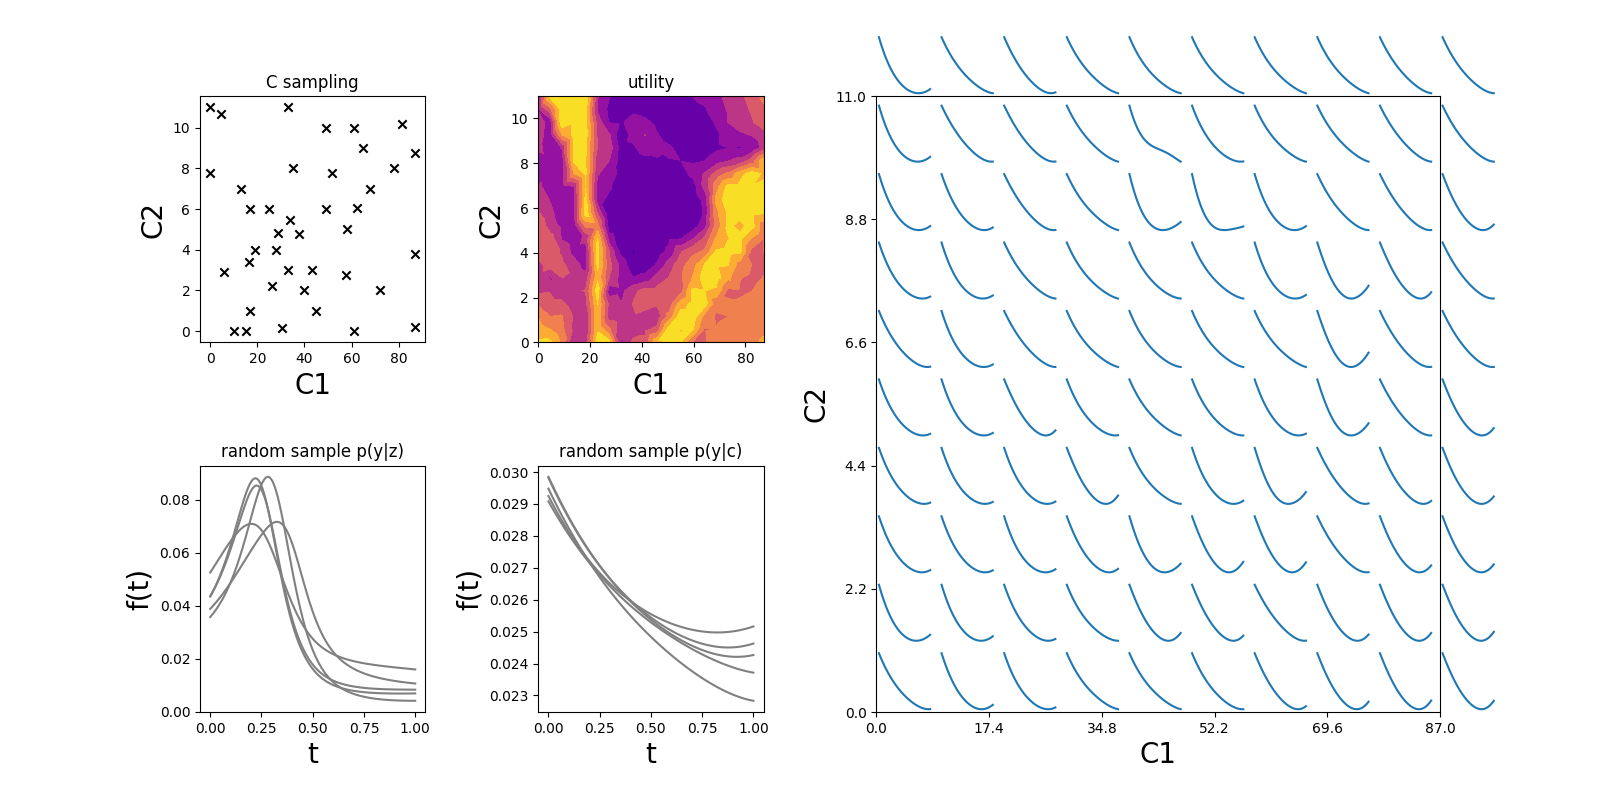
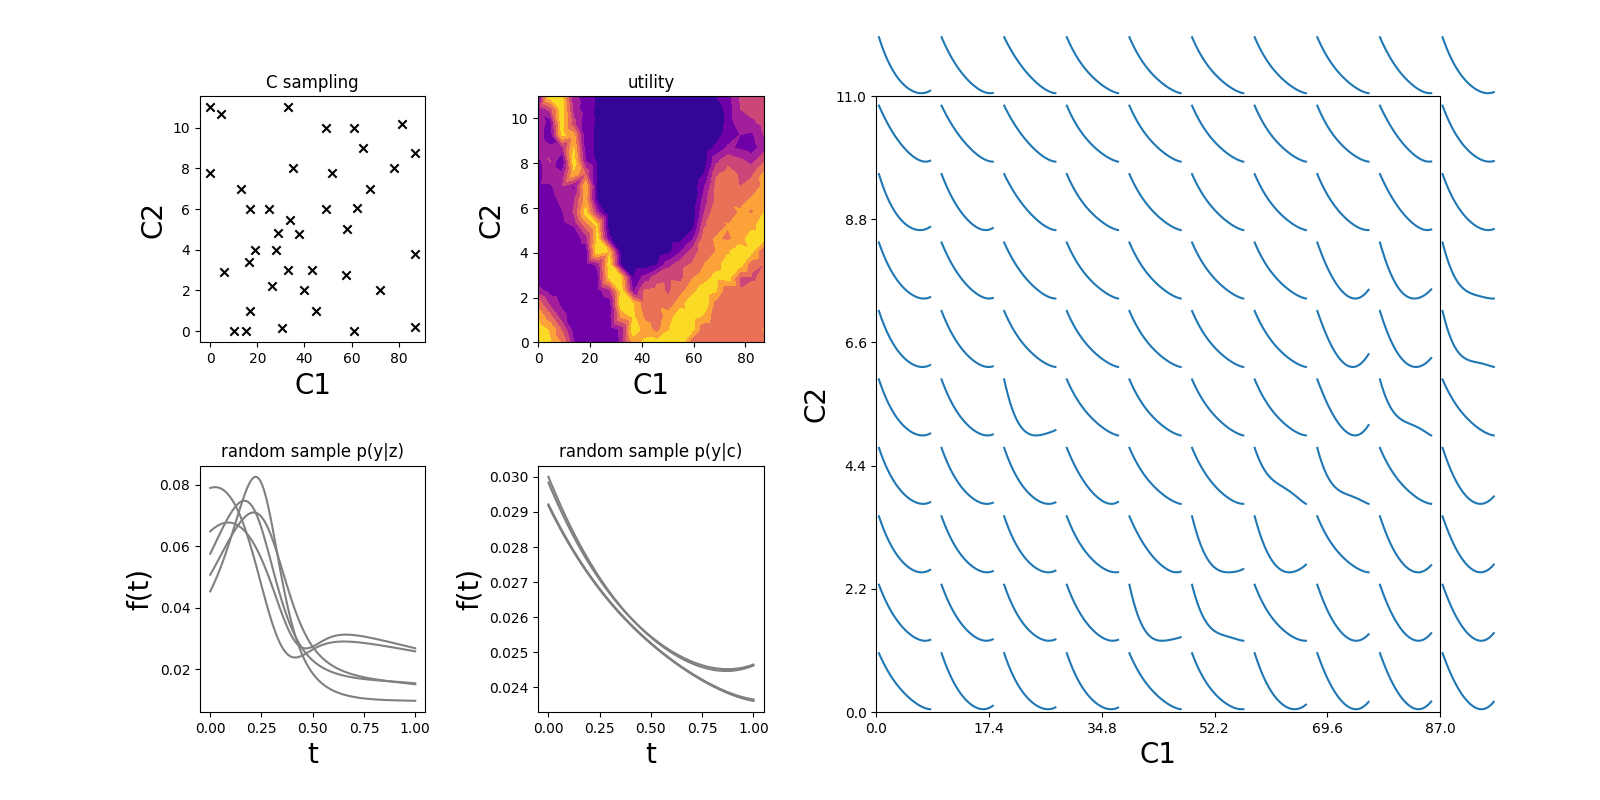
trying to debug anissue where samples from the posterior are nan; there have been many reports of this og github; using double didn't fix it

diff --git a/utils/visuals.py b/utils/visuals.py
@@ -200,23 +200,42 @@ def plot_gpmodel(test_function, gp_model, np_model, fname):
     return 
 
 # plot phase map predition
+
+def plot_gpmodel_recon(ax, gp_model, np_model, test_function, c):
+    with torch.no_grad():
+        mu, sigma = from_comp_to_spectrum(test_function, gp_model, np_model, c)
+        mu_ = mu.cpu().squeeze()
+        sigma_ = sigma.cpu().squeeze()
+        ax.plot(test_function.sim.t, mu_)
+        ax.fill_between(test_function.sim.t,mu_-sigma_,mu_+sigma_,
+        alpha=0.2, color='grey')
+
+    return 
+
+def plot_npmodel_recon(ax, np_model, x, y):
+    xt = torch.from_numpy(x.reshape(1,len(x),1)).to(device)
+    yt =  torch.from_numpy(y.reshape(1,len(x),1)).to(device)
+    z_true_mu, z_true_sigma = np_model.xy_to_mu_sigma(xt,yt)
+    mu, std = np_model.xz_to_y(xt, z_true_mu)
+    mu_ = mu.cpu().squeeze()
+    sigma_ = std.cpu().squeeze()
+    ax.plot(x, mu_, alpha=0.05)
+    ax.fill_between(x,mu_-sigma_, mu_+sigma_,alpha=0.2, color='grey')    
+
+    return 
+
 def plot_phasemap_pred(test_function, gp_model, np_model, fname):
     c_dim = test_function.sim.points.shape[1]
     with torch.no_grad():
-        idx = RNG.choice(range(len(test_function.sim.points)),size=10, replace=False)
+        idx = RNG.choice(range(len(test_function.sim.points)),size=3, replace=False)
         # plot comparision of predictions with actual
-        fig, axs = plt.subplots(2,5, figsize=(4*5, 4*2))
-        axs = axs.flatten()
+        fig, axs = plt.subplots(2,3, figsize=(4*3, 4*2))
         for i, id_ in enumerate(idx):
             ci = test_function.sim.points[id_,:].reshape(1, c_dim)        
-            mu, sigma = from_comp_to_spectrum(test_function, gp_model, np_model, ci)
-            mu_ = mu.cpu().squeeze()
-            sigma_ = sigma.cpu().squeeze()
-            f = test_function.sim.F[id_]
-            axs[i].scatter(test_function.sim.t, f, color='k')
-            axs[i].plot(test_function.sim.t, mu_, color='k')
-            axs[i].fill_between(test_function.sim.t,mu_-sigma_, 
-            mu_+sigma_,alpha=0.2, color='grey')
+            for j in [0,1]:
+                axs[j, i].scatter(test_function.sim.t, test_function.sim.F[id_], color='k')
+            plot_gpmodel_recon(axs[0,i], gp_model, np_model, test_function, ci)
+            plot_npmodel_recon(axs[1,i], np_model, test_function.sim.t, test_function.sim.F[id_])
         plt.savefig(fname)
         plt.close() 
 

diff --git a/phasemapping.py b/phasemapping.py
@@ -17,7 +17,9 @@ from models import SingleTaskGP, MultiTaskGP, SingleTaskDKL, MultiTaskDKL
 from test_functions import PhaseMappingTestFunction
 from utils import *
 from activephasemap.activelearn.simulators import PrabolicPhases, GaussianPhases, GNPPhases
-from activephasemap.np.neural_process import NeuralProcess
+from activephasemap.np.neural_process import NeuralProcess 
+from activephasemap.activelearn.surrogates import update_npmodel
+from activephasemap.activelearn.pipeline import ActiveLearningDataset
 
 BATCH_SIZE = 4
 N_INIT_POINTS = 4
@@ -62,7 +64,7 @@ input_dim = test_function.dim
 output_dim = N_LATENT 
 
 init_x = initialize_points(test_function.bounds, N_INIT_POINTS, output_dim, device)
-init_y = test_function(np_model, init_x)
+init_y, spectra = test_function(np_model, init_x)
 bounds = test_function.bounds.to(device)
 
 standard_bounds = torch.ones(2, test_function.dim).to(device)
@@ -84,6 +86,10 @@ elif MODEL_NAME=="dkl":
 
 t = time.time()
 for i in range(N_ITERATIONS):
+    if i==0:
+        data = ActiveLearningDataset(train_x,spectra)
+    else:
+        data.update(new_x, new_spectra)
     print("\niteration %d" % i)
     gp_model = initialize_model(MODEL_NAME, model_args, input_dim, output_dim, device)
 
@@ -116,13 +122,14 @@ for i in range(N_ITERATIONS):
     candidates = unnormalize(normalized_candidates.detach(), bounds=bounds)
     new_x = candidates[best_index].to(train_x)
     # evaluate new y values and save
-    new_y = test_function(np_model, new_x)
+    new_y, new_spectra = test_function(np_model, new_x)
 
     if np.remainder(100*(i)/N_ITERATIONS,10)==0:
         plot_iteration(i, test_function, train_x, gp_model, np_model, acquisition, N_LATENT)
         plt.savefig(SAVE_DIR+'itr_%d.png'%i)
         plt.close()
-        plot_gpmodel(test_function, gp_model, np_model, SAVE_DIR+'gpmodel_itr_%d.png'%i)   
+        plot_gpmodel(test_function, gp_model, np_model, SAVE_DIR+'gpmodel_itr_%d.png'%i)
+        np_model, np_loss = update_npmodel(test_function.sim.t, np_model, data)   
 
     del acqf_values
     del normalized_candidates

diff --git a/peptoid_goldnano_dkl.py b/peptoid_goldnano_dkl.py
@@ -62,7 +62,7 @@ def featurize_spectra(spectra_all):
     spectra = torch.zeros((num_samples, n_domain)).to(device)
     for i, si in enumerate(spectra_all):
         spectra[i] = torch.tensor(si).to(device)
-    t = torch.linspace(0, 1, n_domain)
+    t = torch.linspace(0.0, 1.0, n_domain)
     t = t.repeat(num_samples, 1).to(device)
     with torch.no_grad():
         z, _ = np_model.xy_to_mu_sigma(t.unsqueeze(2), spectra.unsqueeze(2)) 
@@ -79,7 +79,7 @@ def run_iteration(comps_all, spectra_all):
     so far as input and makes use of other variables defined in this file.
     This makes sure that we can run this function even on a fresh Hyak session.
     """
-    _bounds = [(1e-5, 1.0) for _ in range(input_dim)]
+    _bounds = [(0.0, 1.0) for _ in range(input_dim)]
     standard_bounds = torch.tensor(_bounds).transpose(-1, -2).to(device)
     gp_model = initialize_model(MODEL_NAME, model_args, input_dim, output_dim, device) 
 
@@ -97,8 +97,8 @@ def run_iteration(comps_all, spectra_all):
         acquisition, 
         standard_bounds, 
         q=BATCH_SIZE, 
-        num_restarts=128, 
-        raw_samples=1024, 
+        num_restarts=5, 
+        raw_samples=16, 
         return_best_only=False,
         sequential=False,
         options={"batch_limit": 1, "maxiter": 10, "with_grad":True}
@@ -138,6 +138,7 @@ plot_iteration(ITERATION, test_function, train_x, gp_model, np_model, acquisitio
 plt.savefig(PLOT_DIR+'itr_%d.png'%ITERATION)
 plt.close()  
 plot_gpmodel_expt(test_function, gp_model, np_model, PLOT_DIR+'gpmodel_itr_%d.png'%ITERATION) 
+plot_phasemap_pred(test_function, gp_model, np_model, PLOT_DIR+'compare_spectra_pred_%d.png'%ITERATION)
 
 torch.save(train_x.cpu(), SAVE_DIR+'dkl_train_x.pt')
 torch.save(gp_model.state_dict(), SAVE_DIR+'dkl_model.pt')

diff --git a/utils/settings.py b/utils/settings.py
@@ -3,7 +3,9 @@ from botorch.acquisition.monte_carlo import qUpperConfidenceBound
 from botorch.optim import optimize_acqf
 from botorch.utils.sampling import draw_sobol_samples
 from botorch.utils.transforms import normalize, unnormalize
-from botorch.sampling.stochastic_samplers import StochasticSampler
+from botorch.sampling.stochastic_samplers import StochasticSampler 
+from botorch.sampling.normal import SobolQMCNormalSampler 
+from botorch.sampling.qmc import NormalQMCEngine
 from botorch.acquisition.objective import ScalarizedPosteriorTransform
 from models import SingleTaskGP, MultiTaskGP, SingleTaskDKL, MultiTaskDKL
 
@@ -26,18 +28,18 @@ def initialize_points(bounds, n_init_points, output_dim, device):
     if n_init_points < 1:
         init_x = torch.zeros(1, 1).to(device)
     else:
-        bounds = bounds.to(device, dtype=torch.float64)
+        bounds = bounds.to(device, dtype=torch.double)
         init_x = draw_sobol_samples(bounds=bounds, n=n_init_points, q=1).squeeze(-2)
 
     return init_x
 
 
 def construct_acqf_by_model(model, train_x, train_y, num_objectives=1):
-    sampler = StochasticSampler(sample_shape=torch.Size([1024]))
+    dim = train_y.shape[1]
+    sampler = NormalQMCEngine(dim)
     if num_objectives==1:
         acqf = qUpperConfidenceBound(model=model, beta=100, sampler=sampler)
     else:
-        dim = train_y.shape[1]
         weights = torch.ones(dim)/dim
         posterior_transform = ScalarizedPosteriorTransform(weights.to(train_x))
         acqf = qUpperConfidenceBound(model=model, 

diff --git a/peptoid_goldnano_gp.py b/peptoid_goldnano_gp.py
@@ -17,12 +17,11 @@ device = torch.device('cuda' if torch.cuda.is_available() else 'cpu')
 torch.set_default_dtype(torch.double)
 torch.manual_seed(2458)
 
-ITERATION = 1
+ITERATION = 2
 # hyper-parameters
 MODEL_NAME = "gp"
 SIMULATOR = "parabolic"
 BATCH_SIZE = 11
-N_INIT_POINTS = 4
 
 PLOT_DIR = './results/peptide_GNP/plots_gp/'
 SAVE_DIR = './results/peptide_GNP/'
@@ -79,7 +78,7 @@ def run_iteration(comps_all, spectra_all):
     so far as input and makes use of other variables defined in this file.
     This makes sure that we can run this function even on a fresh Hyak session.
     """
-    _bounds = [(1e-5, 1.0) for _ in range(input_dim)]
+    _bounds = [(0.0001, 1.0) for _ in range(input_dim)]
     standard_bounds = torch.tensor(_bounds).transpose(-1, -2).to(device)
     gp_model = initialize_model(MODEL_NAME, model_args, input_dim, output_dim, device) 
 
@@ -138,6 +137,7 @@ plot_iteration(ITERATION, test_function, train_x, gp_model, np_model, acquisitio
 plt.savefig(PLOT_DIR+'itr_%d.png'%ITERATION)
 plt.close()
 plot_gpmodel_expt(test_function, gp_model, np_model, PLOT_DIR+'gpmodel_itr_%d.png'%ITERATION)
+plot_phasemap_pred(test_function, gp_model, np_model, PLOT_DIR+'compare_spectra_pred.png')
 
 torch.save(train_x.cpu(), SAVE_DIR+'gp_train_x.pt')
 torch.save(gp_model.state_dict(), SAVE_DIR+'gp_model.pt')

diff --git a/expt_integration.py b/expt_integration.py
@@ -21,8 +21,8 @@ torch.manual_seed(21548)
 MODEL_NAME = "gp"
 SIMULATOR = "parabolic"
 BATCH_SIZE = 4
-N_INIT_POINTS = 4
-N_ITERATIONS = 2
+N_INIT_POINTS = 5
+N_ITERATIONS = 3
 
 SAVE_DIR = './results/expt_data/'
 if os.path.exists(SAVE_DIR):
@@ -95,7 +95,7 @@ def run_iteration(comps_all, spectra_all):
     so far as input and makes use of other variables defined in this file.
     This makes sure that we can run this function even on a fresh Hyak session.
     """
-    _bounds = [(1e-5, 1.0) for _ in range(input_dim)]
+    _bounds = [(float(1e-5), 1.0) for _ in range(input_dim)]
     standard_bounds = torch.tensor(_bounds).transpose(-1, -2).to(device)
     gp_model = initialize_model(MODEL_NAME, model_args, input_dim, output_dim, device) 
 
@@ -165,4 +165,5 @@ for i in range(N_ITERATIONS):
     plot_iteration(i, test_function, train_x, gp_model, np_model, acquisition, N_LATENT)
     plt.savefig(PLOT_DIR+'itr_%d.png'%i)
     plt.close()
-    plot_gpmodel_expt(test_function, gp_model, np_model, PLOT_DIR+'gpmodel_itr_%d.png'%i) 
+    plot_gpmodel_expt(test_function, gp_model, np_model, PLOT_DIR+'gpmodel_itr_%d.png'%i)
+    plot_phasemap_pred(test_function, gp_model, np_model, PLOT_DIR+'compare_spectra_pred_%d.png'%i) 

diff --git a/test_functions/phasemaps.py b/test_functions/phasemaps.py
@@ -20,7 +20,7 @@ class PhaseMappingTestFunction:
         """
         self.sim = sim 
         self.dim = dim
-        self._bounds = [(1e-4, 1.0) for _ in range(self.dim)]
+        self._bounds = [(0.0001, 1.0) for _ in range(self.dim)]
         self.bounds = torch.tensor(self._bounds).transpose(-1, -2).to(device)
         self.num_objectives = num_objectives
 
@@ -33,8 +33,7 @@ class PhaseMappingTestFunction:
         t = t.repeat(X.shape[0], 1).to(device)
         with torch.no_grad():
             z, _ = np_model.xy_to_mu_sigma(t.unsqueeze(2), spectra.unsqueeze(2))
-            print('Training z values : ', z)
-        return z  
+        return z, spectra  
 
     __call__ = evaluate_true  
 
